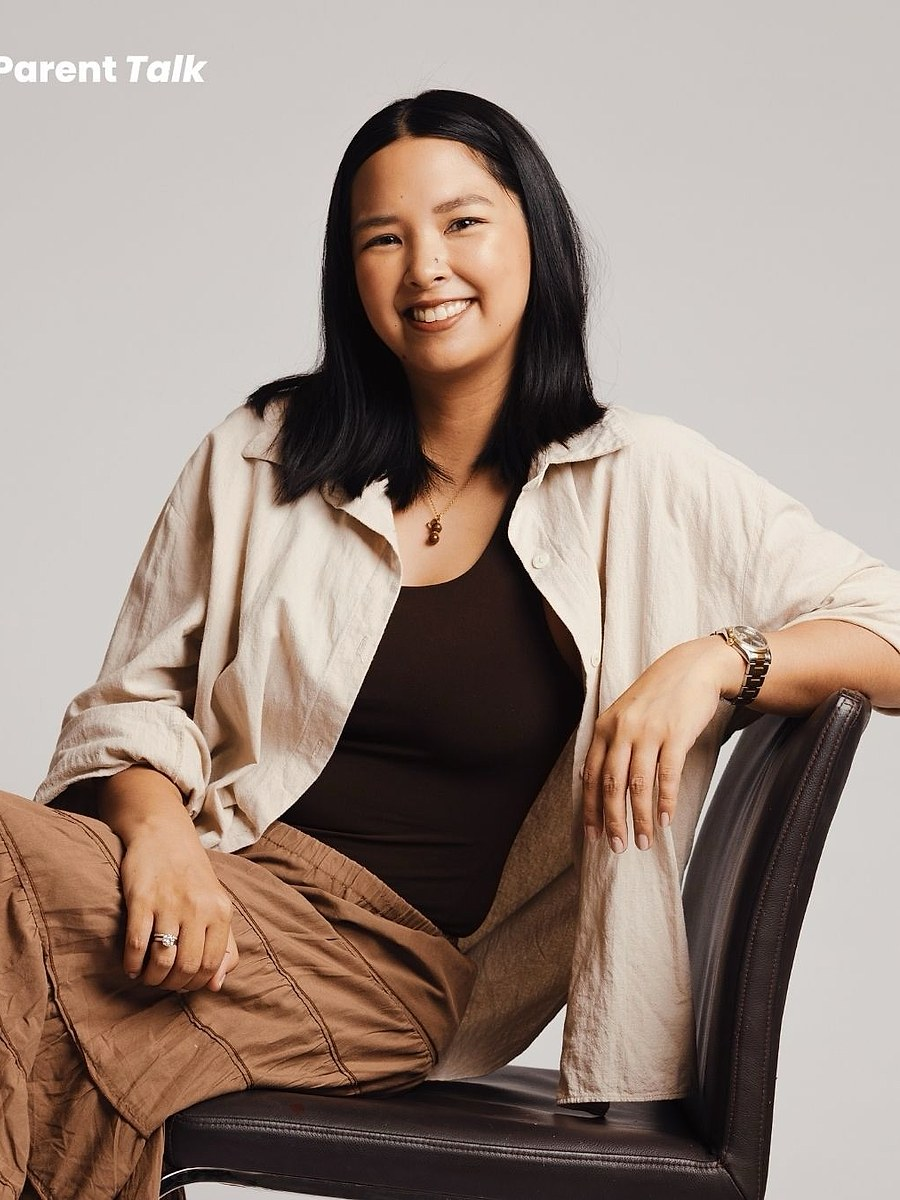
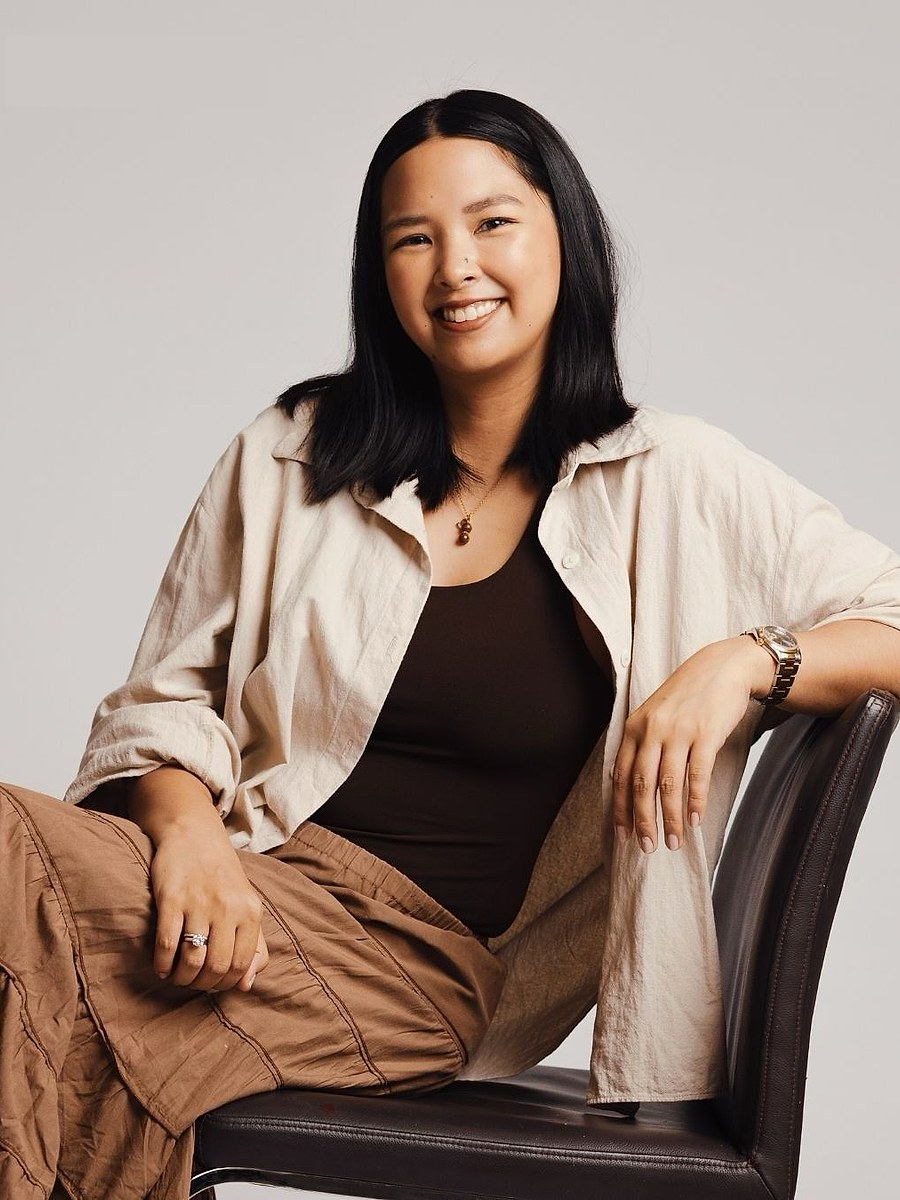
Add bios for the new exclusives, clean Shekinah's photo, update Mariel's.

diff --git a/lib/model.js b/lib/model.js
@@ -88,21 +88,21 @@ export const creators = [
   { id: "c33", name: "Alex Gonzaga", handle: "", niche: "Entertainment", followers: 0, location: "Manila", portrait: true, focus: "center center", brand: "Krazy Garlic", videoId: "d6402a55-63ca-4be5-b7b3-1544c47ab0c4", bio: "Alex Gonzaga’s KYNX campaign for Krazy Garlic.", points: ["Entertainment"] },
   { id: "c34", name: "Andrea So", handle: "", niche: "Entertainment", followers: 0, location: "Manila", portrait: true, focus: "center center", bio: "TikTok star Andrea So shines at Beauty Con Manila 2025 as she performs for an exciting event appearance.", points: ["TikTok", "Live performance", "Events"] },
   { id: "c35", name: "Julia Montes", handle: "", niche: "Entertainment", followers: 0, location: "Manila", portrait: true, focus: "center center", brand: "Siklab", bio: "A surprise to remember and cravings satisfied! Julia Montes surprises her fans as they enjoy Filipino food at Siklab.", points: ["Fan meet", "Food"] },
-  { id: "c36", name: "Ana Ysabel Buenaventura", handle: "anaysabe1e", niche: "Beauty", followers: 13000, location: "", showcase: true, portrait: true, focus: "center center", manager: "Andrea", instagram: "https://www.instagram.com/anaysabe1e/", tiktok: "https://www.tiktok.com/@anaysabe1e", bio: "KYNX exclusive creator.", points: ["Beauty","Fashion","Lifestyle"] },
-  { id: "c37", name: "Leila Miranda", handle: "leilamrnda", niche: "Beauty", followers: 3533, location: "", showcase: true, portrait: true, focus: "center 30%", manager: "Andrea", instagram: "https://www.instagram.com/leilamrnda/", tiktok: "https://www.tiktok.com/@leilamrnda", bio: "KYNX exclusive creator.", points: ["Beauty","Fashion","Lifestyle"] },
-  { id: "c38", name: "Rovin Mizuse", handle: "rovmizuse", niche: "Beauty", followers: 11000, location: "", showcase: true, portrait: true, focus: "center center", manager: "Andrea", instagram: "https://www.instagram.com/rovmizuse/", tiktok: "https://www.tiktok.com/@rovmzs", bio: "KYNX exclusive creator.", points: ["Beauty","Lifestyle","POV/Skits"] },
-  { id: "c39", name: "Sean Russell Santiago", handle: "russ_sntgo", niche: "Fashion", followers: 3170, location: "", showcase: true, portrait: true, focus: "center center", manager: "Maxine", instagram: "https://www.instagram.com/russ_sntgo/", facebook: "https://www.facebook.com/sean.santiago.5", tiktok: "https://www.tiktok.com/@russ_sntgo", bio: "KYNX exclusive creator.", points: ["Fashion","Lifestyle"] },
-  { id: "c40", name: "Nicole Quinzon", handle: "ninanicoleq", niche: "Beauty", followers: 55000, location: "", showcase: true, portrait: true, focus: "center center", manager: "Maxine", instagram: "https://www.instagram.com/ninanicoleq/", tiktok: "https://www.tiktok.com/@ninanicoleq", bio: "KYNX exclusive creator.", points: ["Beauty","Fashion"] },
-  { id: "c41", name: "Racyann Olivia", handle: "racyoliva", niche: "Lifestyle", followers: 323000, location: "", showcase: true, portrait: true, focus: "center center", manager: "Maxine", instagram: "https://www.instagram.com/racyoliva", tiktok: "https://www.tiktok.com/@racyolivaa", bio: "KYNX exclusive creator.", points: ["Lifestyle"] },
-  { id: "c42", name: "MJ Ocampo", handle: "mjocampoo", niche: "Lifestyle", followers: 2748, location: "", showcase: true, portrait: true, focus: "center center", manager: "Andrea", instagram: "https://www.instagram.com/mjocampoo/", facebook: "https://www.facebook.com/mj.ocampo.806980", tiktok: "https://www.tiktok.com/@mjocampoo", bio: "KYNX exclusive creator.", points: ["Lifestyle","POV/Skits","Funny Content"] },
-  { id: "c43", name: "Hanerich Marmol", handle: "hanerichmarmol", niche: "Fashion", followers: 16000, location: "", showcase: true, portrait: true, focus: "center center", manager: "Andrea", instagram: "https://www.instagram.com/hanerichmarmol/", facebook: "https://www.facebook.com/hanerich.marmol", tiktok: "https://www.tiktok.com/@hanerichmarmol", bio: "KYNX exclusive creator.", points: ["Fashion","Lifestyle","Travel"] },
-  { id: "c44", name: "Jasper Fausto", handle: "jasperfausto", niche: "Lifestyle", followers: 979, location: "", showcase: true, portrait: true, focus: "center center", manager: "Andrea", instagram: "https://www.instagram.com/jasperfausto", facebook: "https://www.facebook.com/jasperfausto", tiktok: "https://www.tiktok.com/@jasperfausto", bio: "KYNX exclusive creator.", points: ["Lifestyle","POV/Skits","Home/Living","Adulting/Work"] },
-  { id: "c45", name: "Shekinah Tanangco", handle: "sheklist", niche: "Lifestyle", followers: 4279, location: "", showcase: true, portrait: true, focus: "center center", manager: "Maxine", instagram: "https://www.instagram.com/sheklist", facebook: "https://www.facebook.com/shekinahjb", tiktok: "https://www.tiktok.com/@sheklist", bio: "KYNX exclusive creator.", points: ["Lifestyle","Home/Living","Parent/Family"] },
-  { id: "c46", name: "Mariel Vegafria", handle: "mariel_vegafria", niche: "Beauty", followers: 4803, location: "", showcase: true, portrait: true, focus: "center center", manager: "Andrea", instagram: "https://www.instagram.com/mariel_vegafria/", tiktok: "https://www.tiktok.com/@homariechan", bio: "KYNX exclusive creator.", points: ["Beauty","Fashion","Lifestyle"] },
-  { id: "c47", name: "Tan Rafa", handle: "tanrafa_", niche: "Entertainment", followers: 6037, location: "", showcase: true, portrait: true, focus: "center center", manager: "Maxine", instagram: "https://www.instagram.com/tanrafa_", facebook: "https://www.facebook.com/share/1BuZCqf498/", tiktok: "https://www.tiktok.com/@tanrafa_", bio: "KYNX exclusive creator.", points: ["POV/Skits","Funny Content"] },
-  { id: "c48", name: "Vincent Ryan Lee", handle: "vincentryanlee", niche: "Lifestyle", followers: 1376, location: "", showcase: true, portrait: true, focus: "center 20%", manager: "Maxine", instagram: "https://www.instagram.com/vincentryanlee", facebook: "https://www.facebook.com/share/14tQnuKA42S/", tiktok: "https://www.tiktok.com/@vincentstiktokaccount", bio: "KYNX exclusive creator.", points: ["Lifestyle","POV/Skits","Home/Living","Adulting/Work"] },
-  { id: "c49", name: "Gana Lee", handle: "ganaalee", niche: "Lifestyle", followers: 18000, location: "", showcase: true, portrait: true, focus: "center center", manager: "Maxine", instagram: "https://www.instagram.com/ganaalee", tiktok: "https://www.tiktok.com/@kuromithecutest", bio: "KYNX exclusive creator.", points: [] },
-  { id: "c50", name: "Kayla Aan Gorostiza", handle: "aangorostiza", niche: "Lifestyle", followers: 204000, location: "", showcase: true, portrait: true, focus: "center center", manager: "Maxine", instagram: "https://www.instagram.com/aangorostiza", facebook: "https://www.facebook.com/share/1FJUnmy9PF/", tiktok: "https://www.tiktok.com/@aangorostizuhhh", bio: "KYNX exclusive creator.", points: [] },
+  { id: "c36", name: "Ana Ysabel Buenaventura", handle: "anaysabe1e", niche: "Beauty", followers: 13000, location: "", showcase: true, portrait: true, focus: "center center", manager: "Andrea", instagram: "https://www.instagram.com/anaysabe1e/", tiktok: "https://www.tiktok.com/@anaysabe1e", bio: "Beauty, fashion and lifestyle creator on Instagram and TikTok as @anaysabe1e, posting outfits, makeup and trips such as Tokyo.", points: ["Beauty","Fashion","Lifestyle"] },
+  { id: "c37", name: "Leila Miranda", handle: "leilamrnda", niche: "Beauty", followers: 3533, location: "", showcase: true, portrait: true, focus: "center 30%", manager: "Andrea", instagram: "https://www.instagram.com/leilamrnda/", tiktok: "https://www.tiktok.com/@leilamrnda", bio: "Beauty, fashion and lifestyle creator. Leila posts skincare, sun-care and dressed-up looks on Instagram and TikTok as @leilamrnda.", points: ["Beauty","Fashion","Lifestyle"] },
+  { id: "c38", name: "Rovin Mizuse", handle: "rovmizuse", niche: "Beauty", followers: 11000, location: "", showcase: true, portrait: true, focus: "center center", manager: "Andrea", instagram: "https://www.instagram.com/rovmizuse/", tiktok: "https://www.tiktok.com/@rovmzs", bio: "Beauty and lifestyle creator who also makes POV skits. Rovin shares hair, makeup and glam updates as @rovmizuse on Instagram and @rovmzs on TikTok.", points: ["Beauty","Lifestyle","POV/Skits"] },
+  { id: "c39", name: "Sean Russell Santiago", handle: "russ_sntgo", niche: "Fashion", followers: 3170, location: "", showcase: true, portrait: true, focus: "center center", manager: "Maxine", instagram: "https://www.instagram.com/russ_sntgo/", facebook: "https://www.facebook.com/sean.santiago.5", tiktok: "https://www.tiktok.com/@russ_sntgo", bio: "Fashion and lifestyle creator, part of the UNIQLO Creator Circle. Sean posts everyday outfits on Instagram and TikTok as @russ_sntgo.", points: ["Fashion","Lifestyle"] },
+  { id: "c40", name: "Nicole Quinzon", handle: "ninanicoleq", niche: "Beauty", followers: 55000, location: "", showcase: true, portrait: true, focus: "center center", manager: "Maxine", instagram: "https://www.instagram.com/ninanicoleq/", tiktok: "https://www.tiktok.com/@ninanicoleq", bio: "Beauty and fashion creator. Nicole posts outfits, events and nights out on Instagram and TikTok as @ninanicoleq.", points: ["Beauty","Fashion"] },
+  { id: "c41", name: "Racyann Olivia", handle: "racyoliva", niche: "Lifestyle", followers: 323000, location: "", showcase: true, portrait: true, focus: "center center", manager: "Maxine", instagram: "https://www.instagram.com/racyoliva", tiktok: "https://www.tiktok.com/@racyolivaa", bio: "Lifestyle creator with 323K Instagram followers. Racyann posts editorial portraits and event looks, including PeopleAsia events, as @racyoliva.", points: ["Lifestyle"] },
+  { id: "c42", name: "MJ Ocampo", handle: "mjocampoo", niche: "Lifestyle", followers: 2748, location: "", showcase: true, portrait: true, focus: "center center", manager: "Andrea", instagram: "https://www.instagram.com/mjocampoo/", facebook: "https://www.facebook.com/mj.ocampo.806980", tiktok: "https://www.tiktok.com/@mjocampoo", bio: "Lifestyle creator who makes POV skits and funny content. MJ posts on Instagram and TikTok as @mjocampoo.", points: ["Lifestyle","POV/Skits","Funny Content"] },
+  { id: "c43", name: "Hanerich Marmol", handle: "hanerichmarmol", niche: "Fashion", followers: 16000, location: "", showcase: true, portrait: true, focus: "center center", manager: "Andrea", instagram: "https://www.instagram.com/hanerichmarmol/", facebook: "https://www.facebook.com/hanerich.marmol", tiktok: "https://www.tiktok.com/@hanerichmarmol", bio: "Fashion, lifestyle and travel creator. Hanerich posts city outfits and museum trips on Instagram and TikTok as @hanerichmarmol.", points: ["Fashion","Lifestyle","Travel"] },
+  { id: "c44", name: "Jasper Fausto", handle: "jasperfausto", niche: "Lifestyle", followers: 979, location: "", showcase: true, portrait: true, focus: "center center", manager: "Andrea", instagram: "https://www.instagram.com/jasperfausto", facebook: "https://www.facebook.com/jasperfausto", tiktok: "https://www.tiktok.com/@jasperfausto", bio: "Lifestyle creator who makes POV skits, home and living, and adulting and work content. Jasper posts on Instagram and TikTok as @jasperfausto.", points: ["Lifestyle","POV/Skits","Home/Living","Adulting/Work"] },
+  { id: "c45", name: "Shekinah Tanangco", handle: "sheklist", niche: "Lifestyle", followers: 4279, location: "", showcase: true, portrait: true, focus: "center center", manager: "Maxine", instagram: "https://www.instagram.com/sheklist", facebook: "https://www.facebook.com/shekinahjb", tiktok: "https://www.tiktok.com/@sheklist", bio: "Lifestyle, home and family creator. Shekinah writes about motherhood, building businesses and starting over, on Instagram and TikTok as @sheklist.", points: ["Lifestyle","Home/Living","Parent/Family"] },
+  { id: "c46", name: "Mariel Vegafria", handle: "mariel_vegafria", niche: "Beauty", followers: 4803, location: "", showcase: true, portrait: true, focus: "center center", manager: "Andrea", instagram: "https://www.instagram.com/mariel_vegafria/", tiktok: "https://www.tiktok.com/@homariechan", bio: "Beauty, fashion and lifestyle creator. Mariel posts glam and formal looks as @mariel_vegafria on Instagram and @homariechan on TikTok.", points: ["Beauty","Fashion","Lifestyle"] },
+  { id: "c47", name: "Tan Rafa", handle: "tanrafa_", niche: "Entertainment", followers: 6037, location: "", showcase: true, portrait: true, focus: "center center", manager: "Maxine", instagram: "https://www.instagram.com/tanrafa_", facebook: "https://www.facebook.com/share/1BuZCqf498/", tiktok: "https://www.tiktok.com/@tanrafa_", bio: "Comedy creator who makes POV skits and funny content. Tan posts on Instagram and TikTok as @tanrafa_.", points: ["POV/Skits","Funny Content"] },
+  { id: "c48", name: "Vincent Ryan Lee", handle: "vincentryanlee", niche: "Lifestyle", followers: 1376, location: "", showcase: true, portrait: true, focus: "center 20%", manager: "Maxine", instagram: "https://www.instagram.com/vincentryanlee", facebook: "https://www.facebook.com/share/14tQnuKA42S/", tiktok: "https://www.tiktok.com/@vincentstiktokaccount", bio: "Lifestyle creator who makes POV skits, home and living, and adulting and work content, plus travel. Vincent posts as @vincentryanlee on Instagram.", points: ["Lifestyle","POV/Skits","Home/Living","Adulting/Work"] },
+  { id: "c49", name: "Gana Lee", handle: "ganaalee", niche: "Lifestyle", followers: 18000, location: "", showcase: true, portrait: true, focus: "center center", manager: "Maxine", instagram: "https://www.instagram.com/ganaalee", tiktok: "https://www.tiktok.com/@kuromithecutest", bio: "Lifestyle creator posting everyday life and outfits as @ganaalee on Instagram and @kuromithecutest on TikTok.", points: [] },
+  { id: "c50", name: "Kayla Aan Gorostiza", handle: "aangorostiza", niche: "Lifestyle", followers: 204000, location: "", showcase: true, portrait: true, focus: "center center", manager: "Maxine", instagram: "https://www.instagram.com/aangorostiza", facebook: "https://www.facebook.com/share/1FJUnmy9PF/", tiktok: "https://www.tiktok.com/@aangorostizuhhh", bio: "Lifestyle and family creator with 204K Instagram followers. Kayla shares life as a new mom as @aangorostiza.", points: [] },
   { id: "c01", name: "Aira Velasco", handle: "airalives", niche: "Lifestyle", followers: 86400, location: "Quezon City" },
   { id: "c02", name: "Mateo Cruz", handle: "mateofinds", niche: "Tech", followers: 124000, location: "Cebu" },
   { id: "c03", name: "Liana Reyes", handle: "lianaglow", niche: "Beauty", followers: 42800, location: "Manila" },
